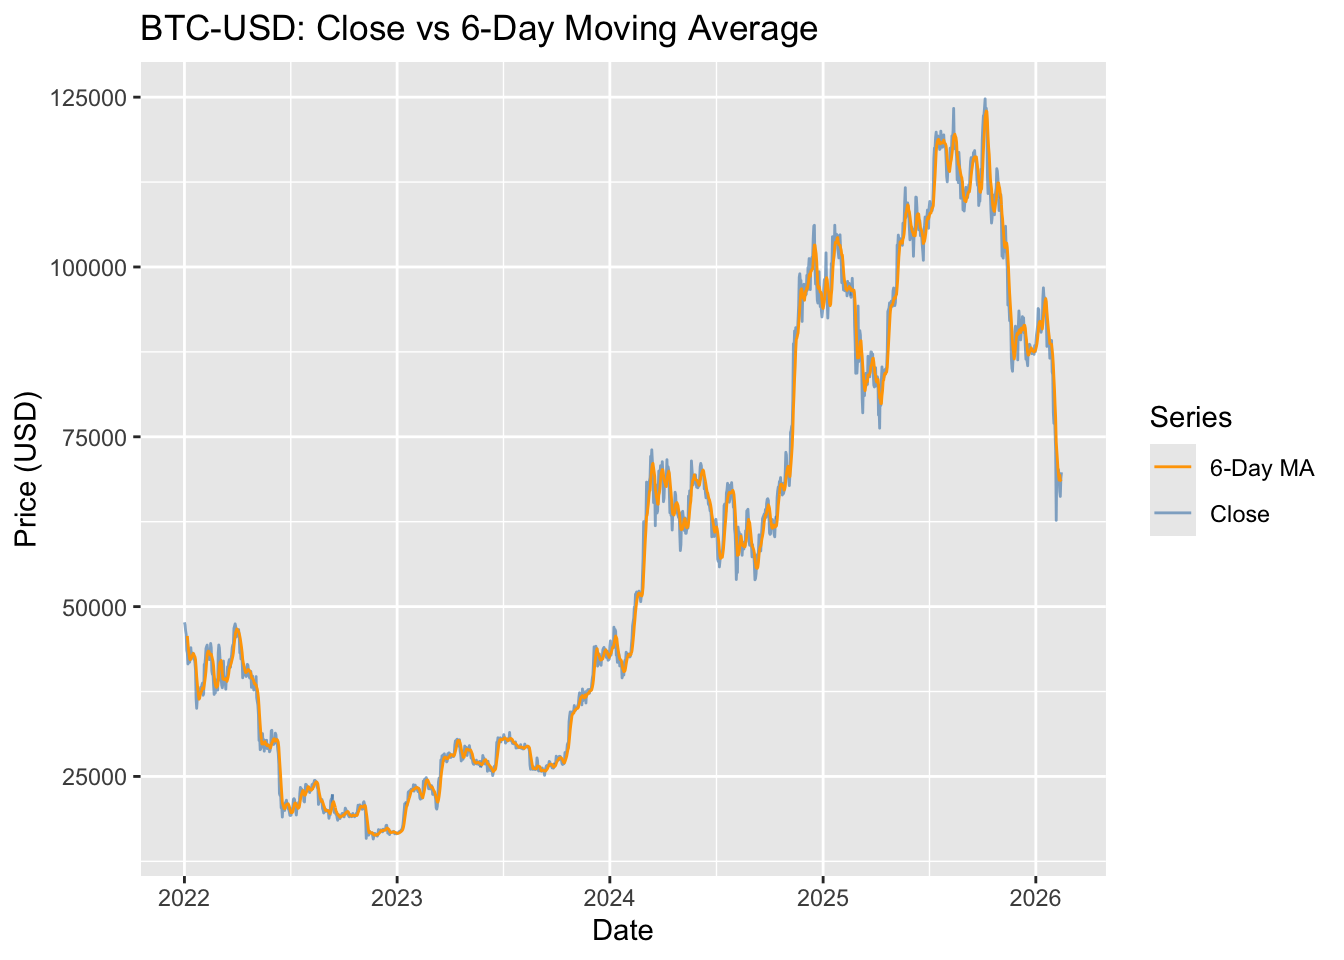
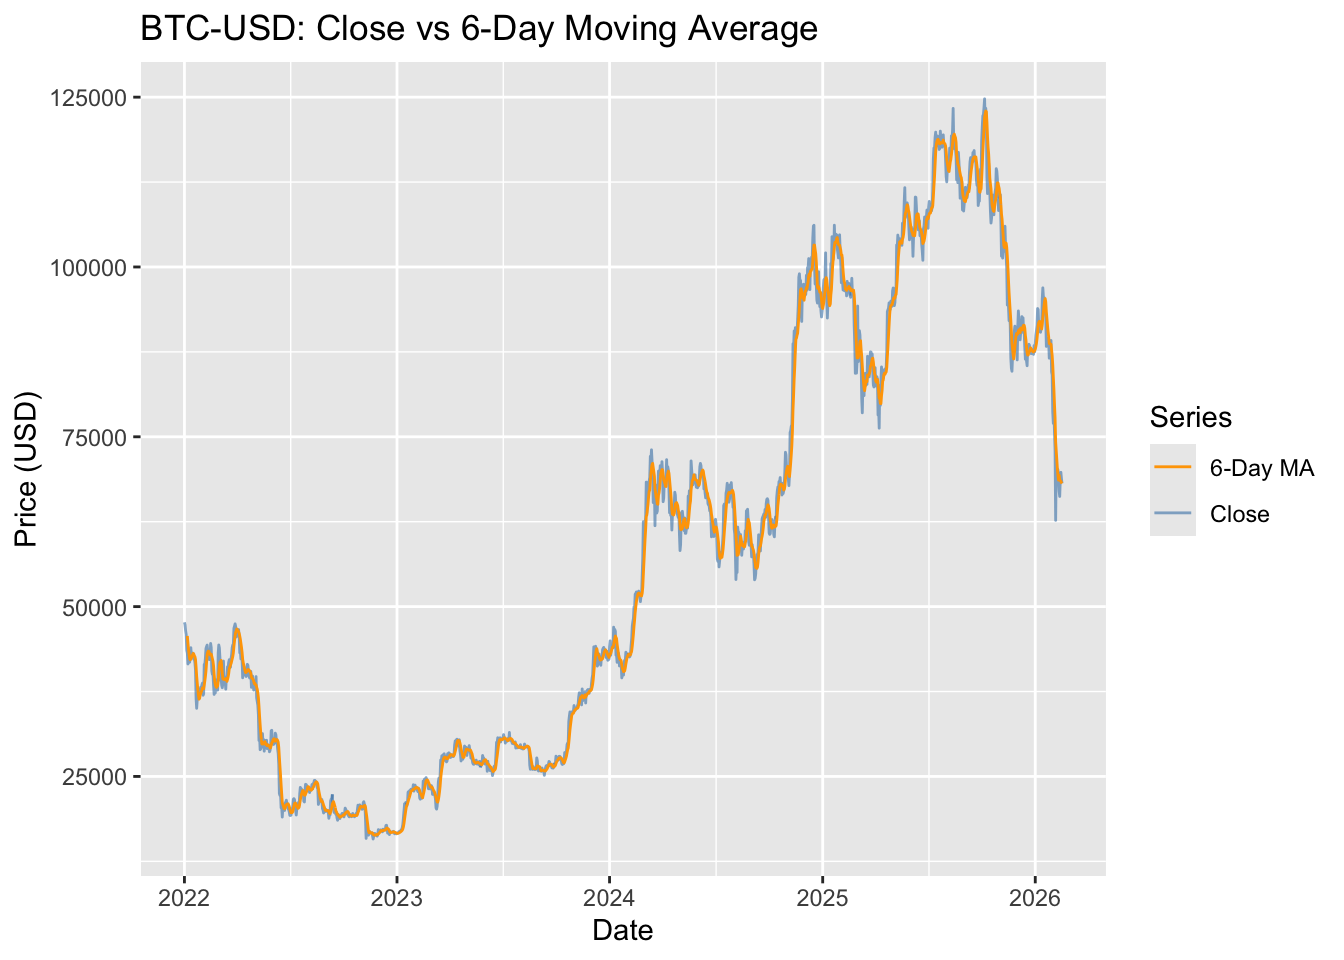
Update week3 window functions and crypto data

diff --git a/week3-assignment/3b-window-functions.html b/week3-assignment/3b-window-functions.html
@@ -187,7 +187,7 @@ The following objects are masked from 'package:base':
 <span id="cb8-16"><a href="#cb8-16" aria-hidden="true" tabindex="-1"></a></span>
 <span id="cb8-17"><a href="#cb8-17" aria-hidden="true" tabindex="-1"></a>crypto <span class="sc">%&gt;%</span> <span class="fu">glimpse</span>()</span></code></pre></div><button title="Copy to Clipboard" class="code-copy-button"><i class="bi"></i></button></div>
 <div class="cell-output cell-output-stdout">
-<pre><code>Rows: 3,014
+<pre><code>Rows: 3,016
 Columns: 8
 $ symbol   &lt;chr&gt; "BTC-USD", "BTC-USD", "BTC-USD", "BTC-USD", "BTC-USD", "BTC-U…
 $ date     &lt;date&gt; 2022-01-01, 2022-01-02, 2022-01-03, 2022-01-04, 2022-01-05, …
@@ -203,8 +203,8 @@ $ adjusted &lt;dbl&gt; 47686.81, 47345.22, 46458.12, 45897.57, 43569.00, 43160.9
 <pre><code># A tibble: 2 × 2
   symbol      n
   &lt;chr&gt;   &lt;int&gt;
-1 BTC-USD  1507
-2 ETH-USD  1507</code></pre>
+1 BTC-USD  1508
+2 ETH-USD  1508</code></pre>
 </div>
 </div>
 </section>
@@ -247,18 +247,18 @@ $ adjusted &lt;dbl&gt; 47686.81, 47345.22, 46458.12, 45897.57, 43569.00, 43160.9
 <pre><code># A tibble: 12 × 5
    symbol  date       close ytd_avg_close ma_6_close
    &lt;chr&gt;   &lt;date&gt;     &lt;dbl&gt;         &lt;dbl&gt;      &lt;dbl&gt;
- 1 ETH-USD 2026-02-04 2144.         2975.      2355.
- 2 ETH-USD 2026-02-05 1822.         2943.      2208.
- 3 ETH-USD 2026-02-06 2063.         2919.      2145.
- 4 ETH-USD 2026-02-07 2091.         2897.      2115.
- 5 ETH-USD 2026-02-08 2089.         2876.      2073.
- 6 ETH-USD 2026-02-09 2104.         2857.      2052.
- 7 ETH-USD 2026-02-10 2019.         2837.      2031.
- 8 ETH-USD 2026-02-11 1941.         2815.      2051.
- 9 ETH-USD 2026-02-12 1947.         2795.      2032.
-10 ETH-USD 2026-02-13 2049.         2778.      2025.
-11 ETH-USD 2026-02-14 2086.         2763.      2024.
-12 ETH-USD 2026-02-15   NA            NA         NA </code></pre>
+ 1 ETH-USD 2026-02-05 1822.         2943.      2208.
+ 2 ETH-USD 2026-02-06 2063.         2919.      2145.
+ 3 ETH-USD 2026-02-07 2091.         2897.      2115.
+ 4 ETH-USD 2026-02-08 2089.         2876.      2073.
+ 5 ETH-USD 2026-02-09 2104.         2857.      2052.
+ 6 ETH-USD 2026-02-10 2019.         2837.      2031.
+ 7 ETH-USD 2026-02-11 1941.         2815.      2051.
+ 8 ETH-USD 2026-02-12 1947.         2795.      2032.
+ 9 ETH-USD 2026-02-13 2049.         2778.      2025.
+10 ETH-USD 2026-02-14 2086.         2763.      2024.
+11 ETH-USD 2026-02-15 1966.         2745.      2001.
+12 ETH-USD 2026-02-16 1982.         2729.      1995.</code></pre>
 </div>
 </div>
 </section>
@@ -290,11 +290,7 @@ $ adjusted &lt;dbl&gt; 47686.81, 47345.22, 46458.12, 45897.57, 43569.00, 43160.9
 <span id="cb16-11"><a href="#cb16-11" aria-hidden="true" tabindex="-1"></a>    <span class="at">color =</span> <span class="st">"Series"</span></span>
 <span id="cb16-12"><a href="#cb16-12" aria-hidden="true" tabindex="-1"></a>  )</span></code></pre></div><button title="Copy to Clipboard" class="code-copy-button"><i class="bi"></i></button></div>
 <div class="cell-output cell-output-stderr">
-<pre><code>Warning: Removed 1 row containing missing values or values outside the scale range
-(`geom_line()`).</code></pre>
-</div>
-<div class="cell-output cell-output-stderr">
-<pre><code>Warning: Removed 6 rows containing missing values or values outside the scale range
+<pre><code>Warning: Removed 5 rows containing missing values or values outside the scale range
 (`geom_line()`).</code></pre>
 </div>
 <div class="cell-output-display">
@@ -306,24 +302,20 @@ $ adjusted &lt;dbl&gt; 47686.81, 47345.22, 46458.12, 45897.57, 43569.00, 43160.9
 </div>
 </div>
 <div class="cell">
-<div class="code-copy-outer-scaffold"><div class="sourceCode cell-code" id="cb19"><pre class="sourceCode r code-with-copy"><code class="sourceCode r"><span id="cb19-1"><a href="#cb19-1" aria-hidden="true" tabindex="-1"></a>crypto_windows <span class="sc">%&gt;%</span></span>
-<span id="cb19-2"><a href="#cb19-2" aria-hidden="true" tabindex="-1"></a>  <span class="fu">filter</span>(symbol <span class="sc">==</span> <span class="st">"ETH-USD"</span>) <span class="sc">%&gt;%</span></span>
-<span id="cb19-3"><a href="#cb19-3" aria-hidden="true" tabindex="-1"></a>  <span class="fu">ggplot</span>(<span class="fu">aes</span>(<span class="at">x =</span> date)) <span class="sc">+</span></span>
-<span id="cb19-4"><a href="#cb19-4" aria-hidden="true" tabindex="-1"></a>  <span class="fu">geom_line</span>(<span class="fu">aes</span>(<span class="at">y =</span> close, <span class="at">color =</span> <span class="st">"Close"</span>), <span class="at">alpha =</span> <span class="fl">0.6</span>) <span class="sc">+</span></span>
-<span id="cb19-5"><a href="#cb19-5" aria-hidden="true" tabindex="-1"></a>  <span class="fu">geom_line</span>(<span class="fu">aes</span>(<span class="at">y =</span> ma_6_close, <span class="at">color =</span> <span class="st">"6-Day MA"</span>)) <span class="sc">+</span></span>
-<span id="cb19-6"><a href="#cb19-6" aria-hidden="true" tabindex="-1"></a>  <span class="fu">scale_color_manual</span>(<span class="at">values =</span> <span class="fu">c</span>(<span class="st">"Close"</span> <span class="ot">=</span> <span class="st">"steelblue"</span>, <span class="st">"6-Day MA"</span> <span class="ot">=</span> <span class="st">"orange"</span>)) <span class="sc">+</span></span>
-<span id="cb19-7"><a href="#cb19-7" aria-hidden="true" tabindex="-1"></a>  <span class="fu">labs</span>(</span>
-<span id="cb19-8"><a href="#cb19-8" aria-hidden="true" tabindex="-1"></a>    <span class="at">title =</span> <span class="st">"ETH-USD: Close vs 6-Day Moving Average"</span>,</span>
-<span id="cb19-9"><a href="#cb19-9" aria-hidden="true" tabindex="-1"></a>    <span class="at">x =</span> <span class="st">"Date"</span>,</span>
-<span id="cb19-10"><a href="#cb19-10" aria-hidden="true" tabindex="-1"></a>    <span class="at">y =</span> <span class="st">"Price (USD)"</span>,</span>
-<span id="cb19-11"><a href="#cb19-11" aria-hidden="true" tabindex="-1"></a>    <span class="at">color =</span> <span class="st">"Series"</span></span>
-<span id="cb19-12"><a href="#cb19-12" aria-hidden="true" tabindex="-1"></a>  )</span></code></pre></div><button title="Copy to Clipboard" class="code-copy-button"><i class="bi"></i></button></div>
+<div class="code-copy-outer-scaffold"><div class="sourceCode cell-code" id="cb18"><pre class="sourceCode r code-with-copy"><code class="sourceCode r"><span id="cb18-1"><a href="#cb18-1" aria-hidden="true" tabindex="-1"></a>crypto_windows <span class="sc">%&gt;%</span></span>
+<span id="cb18-2"><a href="#cb18-2" aria-hidden="true" tabindex="-1"></a>  <span class="fu">filter</span>(symbol <span class="sc">==</span> <span class="st">"ETH-USD"</span>) <span class="sc">%&gt;%</span></span>
+<span id="cb18-3"><a href="#cb18-3" aria-hidden="true" tabindex="-1"></a>  <span class="fu">ggplot</span>(<span class="fu">aes</span>(<span class="at">x =</span> date)) <span class="sc">+</span></span>
+<span id="cb18-4"><a href="#cb18-4" aria-hidden="true" tabindex="-1"></a>  <span class="fu">geom_line</span>(<span class="fu">aes</span>(<span class="at">y =</span> close, <span class="at">color =</span> <span class="st">"Close"</span>), <span class="at">alpha =</span> <span class="fl">0.6</span>) <span class="sc">+</span></span>
+<span id="cb18-5"><a href="#cb18-5" aria-hidden="true" tabindex="-1"></a>  <span class="fu">geom_line</span>(<span class="fu">aes</span>(<span class="at">y =</span> ma_6_close, <span class="at">color =</span> <span class="st">"6-Day MA"</span>)) <span class="sc">+</span></span>
+<span id="cb18-6"><a href="#cb18-6" aria-hidden="true" tabindex="-1"></a>  <span class="fu">scale_color_manual</span>(<span class="at">values =</span> <span class="fu">c</span>(<span class="st">"Close"</span> <span class="ot">=</span> <span class="st">"steelblue"</span>, <span class="st">"6-Day MA"</span> <span class="ot">=</span> <span class="st">"orange"</span>)) <span class="sc">+</span></span>
+<span id="cb18-7"><a href="#cb18-7" aria-hidden="true" tabindex="-1"></a>  <span class="fu">labs</span>(</span>
+<span id="cb18-8"><a href="#cb18-8" aria-hidden="true" tabindex="-1"></a>    <span class="at">title =</span> <span class="st">"ETH-USD: Close vs 6-Day Moving Average"</span>,</span>
+<span id="cb18-9"><a href="#cb18-9" aria-hidden="true" tabindex="-1"></a>    <span class="at">x =</span> <span class="st">"Date"</span>,</span>
+<span id="cb18-10"><a href="#cb18-10" aria-hidden="true" tabindex="-1"></a>    <span class="at">y =</span> <span class="st">"Price (USD)"</span>,</span>
+<span id="cb18-11"><a href="#cb18-11" aria-hidden="true" tabindex="-1"></a>    <span class="at">color =</span> <span class="st">"Series"</span></span>
+<span id="cb18-12"><a href="#cb18-12" aria-hidden="true" tabindex="-1"></a>  )</span></code></pre></div><button title="Copy to Clipboard" class="code-copy-button"><i class="bi"></i></button></div>
 <div class="cell-output cell-output-stderr">
-<pre><code>Warning: Removed 1 row containing missing values or values outside the scale range
-(`geom_line()`).</code></pre>
-</div>
-<div class="cell-output cell-output-stderr">
-<pre><code>Warning: Removed 6 rows containing missing values or values outside the scale range
+<pre><code>Warning: Removed 5 rows containing missing values or values outside the scale range
 (`geom_line()`).</code></pre>
 </div>
 <div class="cell-output-display">
@@ -339,6 +331,51 @@ $ adjusted &lt;dbl&gt; 47686.81, 47345.22, 46458.12, 45897.57, 43569.00, 43160.9
 <h1>Conclusions</h1>
 <p>Using daily cryptocurrency prices for BTC-USD and ETH-USD since January 1, 2022, I applied window-style operations in dplyr to compute <strong>year-to-date average close prices</strong> and <strong>6-day moving averages</strong> for each symbol. The YTD average provides a running baseline that resets each year, while the 6-day moving average smooths short-term noise and makes trends easier to interpret.</p>
 <p>To extend this work, I could compare multiple window sizes (7/14/30 days), compute the same features on daily returns rather than raw prices, and add data-quality checks (duplicates, missing dates, extreme outliers) to ensure rolling calculations are based on a clean and consistent time series.</p>
+<hr>
+</section>
+<section id="optional-30-day-moving-average" class="level1">
+<h1>Optional: 30-day moving average</h1>
+<div class="cell">
+<div class="code-copy-outer-scaffold"><div class="sourceCode cell-code" id="cb20"><pre class="sourceCode r code-with-copy"><code class="sourceCode r"><span id="cb20-1"><a href="#cb20-1" aria-hidden="true" tabindex="-1"></a>crypto_windows_30 <span class="ot">&lt;-</span> crypto <span class="sc">%&gt;%</span></span>
+<span id="cb20-2"><a href="#cb20-2" aria-hidden="true" tabindex="-1"></a>  <span class="fu">arrange</span>(symbol, date) <span class="sc">%&gt;%</span></span>
+<span id="cb20-3"><a href="#cb20-3" aria-hidden="true" tabindex="-1"></a>  <span class="fu">mutate</span>(<span class="at">year =</span> <span class="fu">year</span>(date)) <span class="sc">%&gt;%</span></span>
+<span id="cb20-4"><a href="#cb20-4" aria-hidden="true" tabindex="-1"></a>  <span class="fu">group_by</span>(symbol, year) <span class="sc">%&gt;%</span></span>
+<span id="cb20-5"><a href="#cb20-5" aria-hidden="true" tabindex="-1"></a>  <span class="fu">mutate</span>(</span>
+<span id="cb20-6"><a href="#cb20-6" aria-hidden="true" tabindex="-1"></a>    <span class="at">ytd_avg_close =</span> <span class="fu">cummean</span>(close)</span>
+<span id="cb20-7"><a href="#cb20-7" aria-hidden="true" tabindex="-1"></a>  ) <span class="sc">%&gt;%</span></span>
+<span id="cb20-8"><a href="#cb20-8" aria-hidden="true" tabindex="-1"></a>  <span class="fu">group_by</span>(symbol) <span class="sc">%&gt;%</span></span>
+<span id="cb20-9"><a href="#cb20-9" aria-hidden="true" tabindex="-1"></a>  <span class="fu">mutate</span>(</span>
+<span id="cb20-10"><a href="#cb20-10" aria-hidden="true" tabindex="-1"></a>    <span class="at">ma_30_close =</span> <span class="fu">slide_dbl</span>(close, mean, <span class="at">.before =</span> <span class="dv">29</span>, <span class="at">.complete =</span> <span class="cn">TRUE</span>)</span>
+<span id="cb20-11"><a href="#cb20-11" aria-hidden="true" tabindex="-1"></a>  ) <span class="sc">%&gt;%</span></span>
+<span id="cb20-12"><a href="#cb20-12" aria-hidden="true" tabindex="-1"></a>  <span class="fu">ungroup</span>()</span></code></pre></div><button title="Copy to Clipboard" class="code-copy-button"><i class="bi"></i></button></div>
+</div>
+<p>Quick visual check:<br>
+A moving average should be smoother than the raw close price.</p>
+<div class="cell">
+<div class="code-copy-outer-scaffold"><div class="sourceCode cell-code" id="cb21"><pre class="sourceCode r code-with-copy"><code class="sourceCode r"><span id="cb21-1"><a href="#cb21-1" aria-hidden="true" tabindex="-1"></a>crypto_windows_30 <span class="sc">%&gt;%</span></span>
+<span id="cb21-2"><a href="#cb21-2" aria-hidden="true" tabindex="-1"></a>  <span class="fu">filter</span>(symbol <span class="sc">==</span> <span class="st">"BTC-USD"</span>) <span class="sc">%&gt;%</span></span>
+<span id="cb21-3"><a href="#cb21-3" aria-hidden="true" tabindex="-1"></a>  <span class="fu">ggplot</span>(<span class="fu">aes</span>(<span class="at">x =</span> date)) <span class="sc">+</span></span>
+<span id="cb21-4"><a href="#cb21-4" aria-hidden="true" tabindex="-1"></a>  <span class="fu">geom_line</span>(<span class="fu">aes</span>(<span class="at">y =</span> close, <span class="at">color =</span> <span class="st">"Close"</span>), <span class="at">alpha =</span> <span class="fl">0.6</span>) <span class="sc">+</span></span>
+<span id="cb21-5"><a href="#cb21-5" aria-hidden="true" tabindex="-1"></a>  <span class="fu">geom_line</span>(<span class="fu">aes</span>(<span class="at">y =</span> ma_30_close, <span class="at">color =</span> <span class="st">"30-Day MA"</span>)) <span class="sc">+</span></span>
+<span id="cb21-6"><a href="#cb21-6" aria-hidden="true" tabindex="-1"></a>  <span class="fu">scale_color_manual</span>(<span class="at">values =</span> <span class="fu">c</span>(<span class="st">"Close"</span> <span class="ot">=</span> <span class="st">"steelblue"</span>, <span class="st">"30-Day MA"</span> <span class="ot">=</span> <span class="st">"red"</span>)) <span class="sc">+</span></span>
+<span id="cb21-7"><a href="#cb21-7" aria-hidden="true" tabindex="-1"></a>  <span class="fu">labs</span>(</span>
+<span id="cb21-8"><a href="#cb21-8" aria-hidden="true" tabindex="-1"></a>    <span class="at">title =</span> <span class="st">"BTC-USD: Close vs 30-Day Moving Average"</span>,</span>
+<span id="cb21-9"><a href="#cb21-9" aria-hidden="true" tabindex="-1"></a>    <span class="at">x =</span> <span class="st">"Date"</span>,</span>
+<span id="cb21-10"><a href="#cb21-10" aria-hidden="true" tabindex="-1"></a>    <span class="at">y =</span> <span class="st">"Price (USD)"</span>,</span>
+<span id="cb21-11"><a href="#cb21-11" aria-hidden="true" tabindex="-1"></a>    <span class="at">color =</span> <span class="st">"Series"</span></span>
+<span id="cb21-12"><a href="#cb21-12" aria-hidden="true" tabindex="-1"></a>  )</span></code></pre></div><button title="Copy to Clipboard" class="code-copy-button"><i class="bi"></i></button></div>
+<div class="cell-output cell-output-stderr">
+<pre><code>Warning: Removed 29 rows containing missing values or values outside the scale range
+(`geom_line()`).</code></pre>
+</div>
+<div class="cell-output-display">
+<div>
+<figure class="figure">
+<p><img src="3b-window-functions_files/figure-html/unnamed-chunk-7-1.png" class="img-fluid figure-img" width="672"></p>
+</figure>
+</div>
+</div>
+</div>
 </section>
 
 </main>
